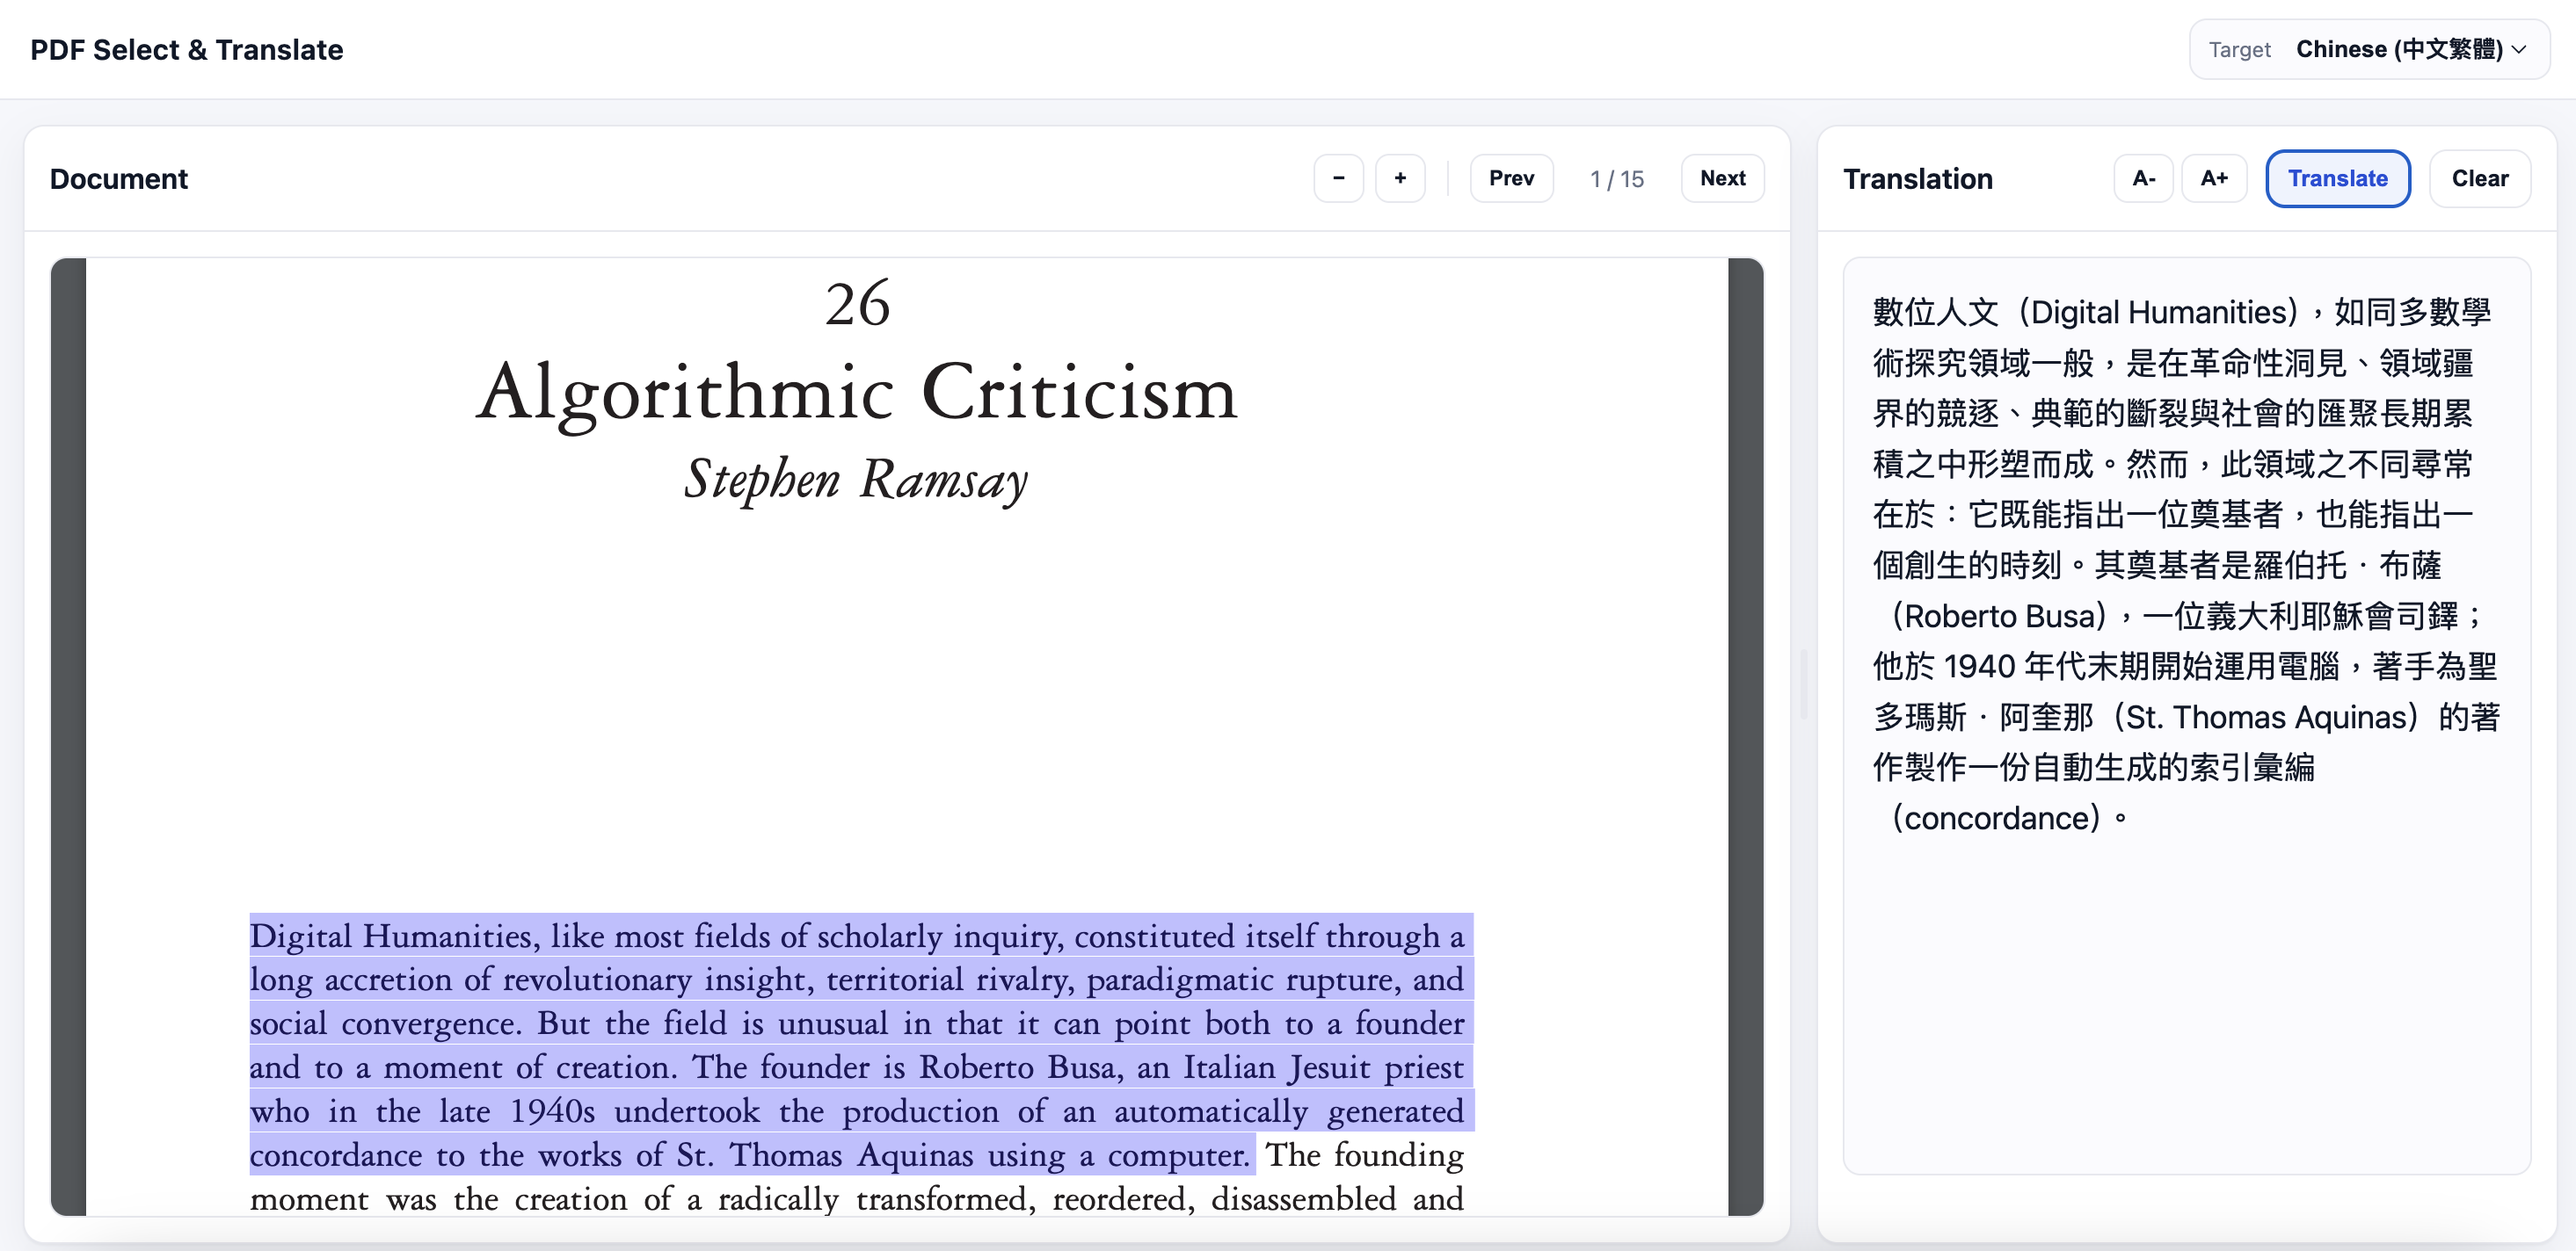
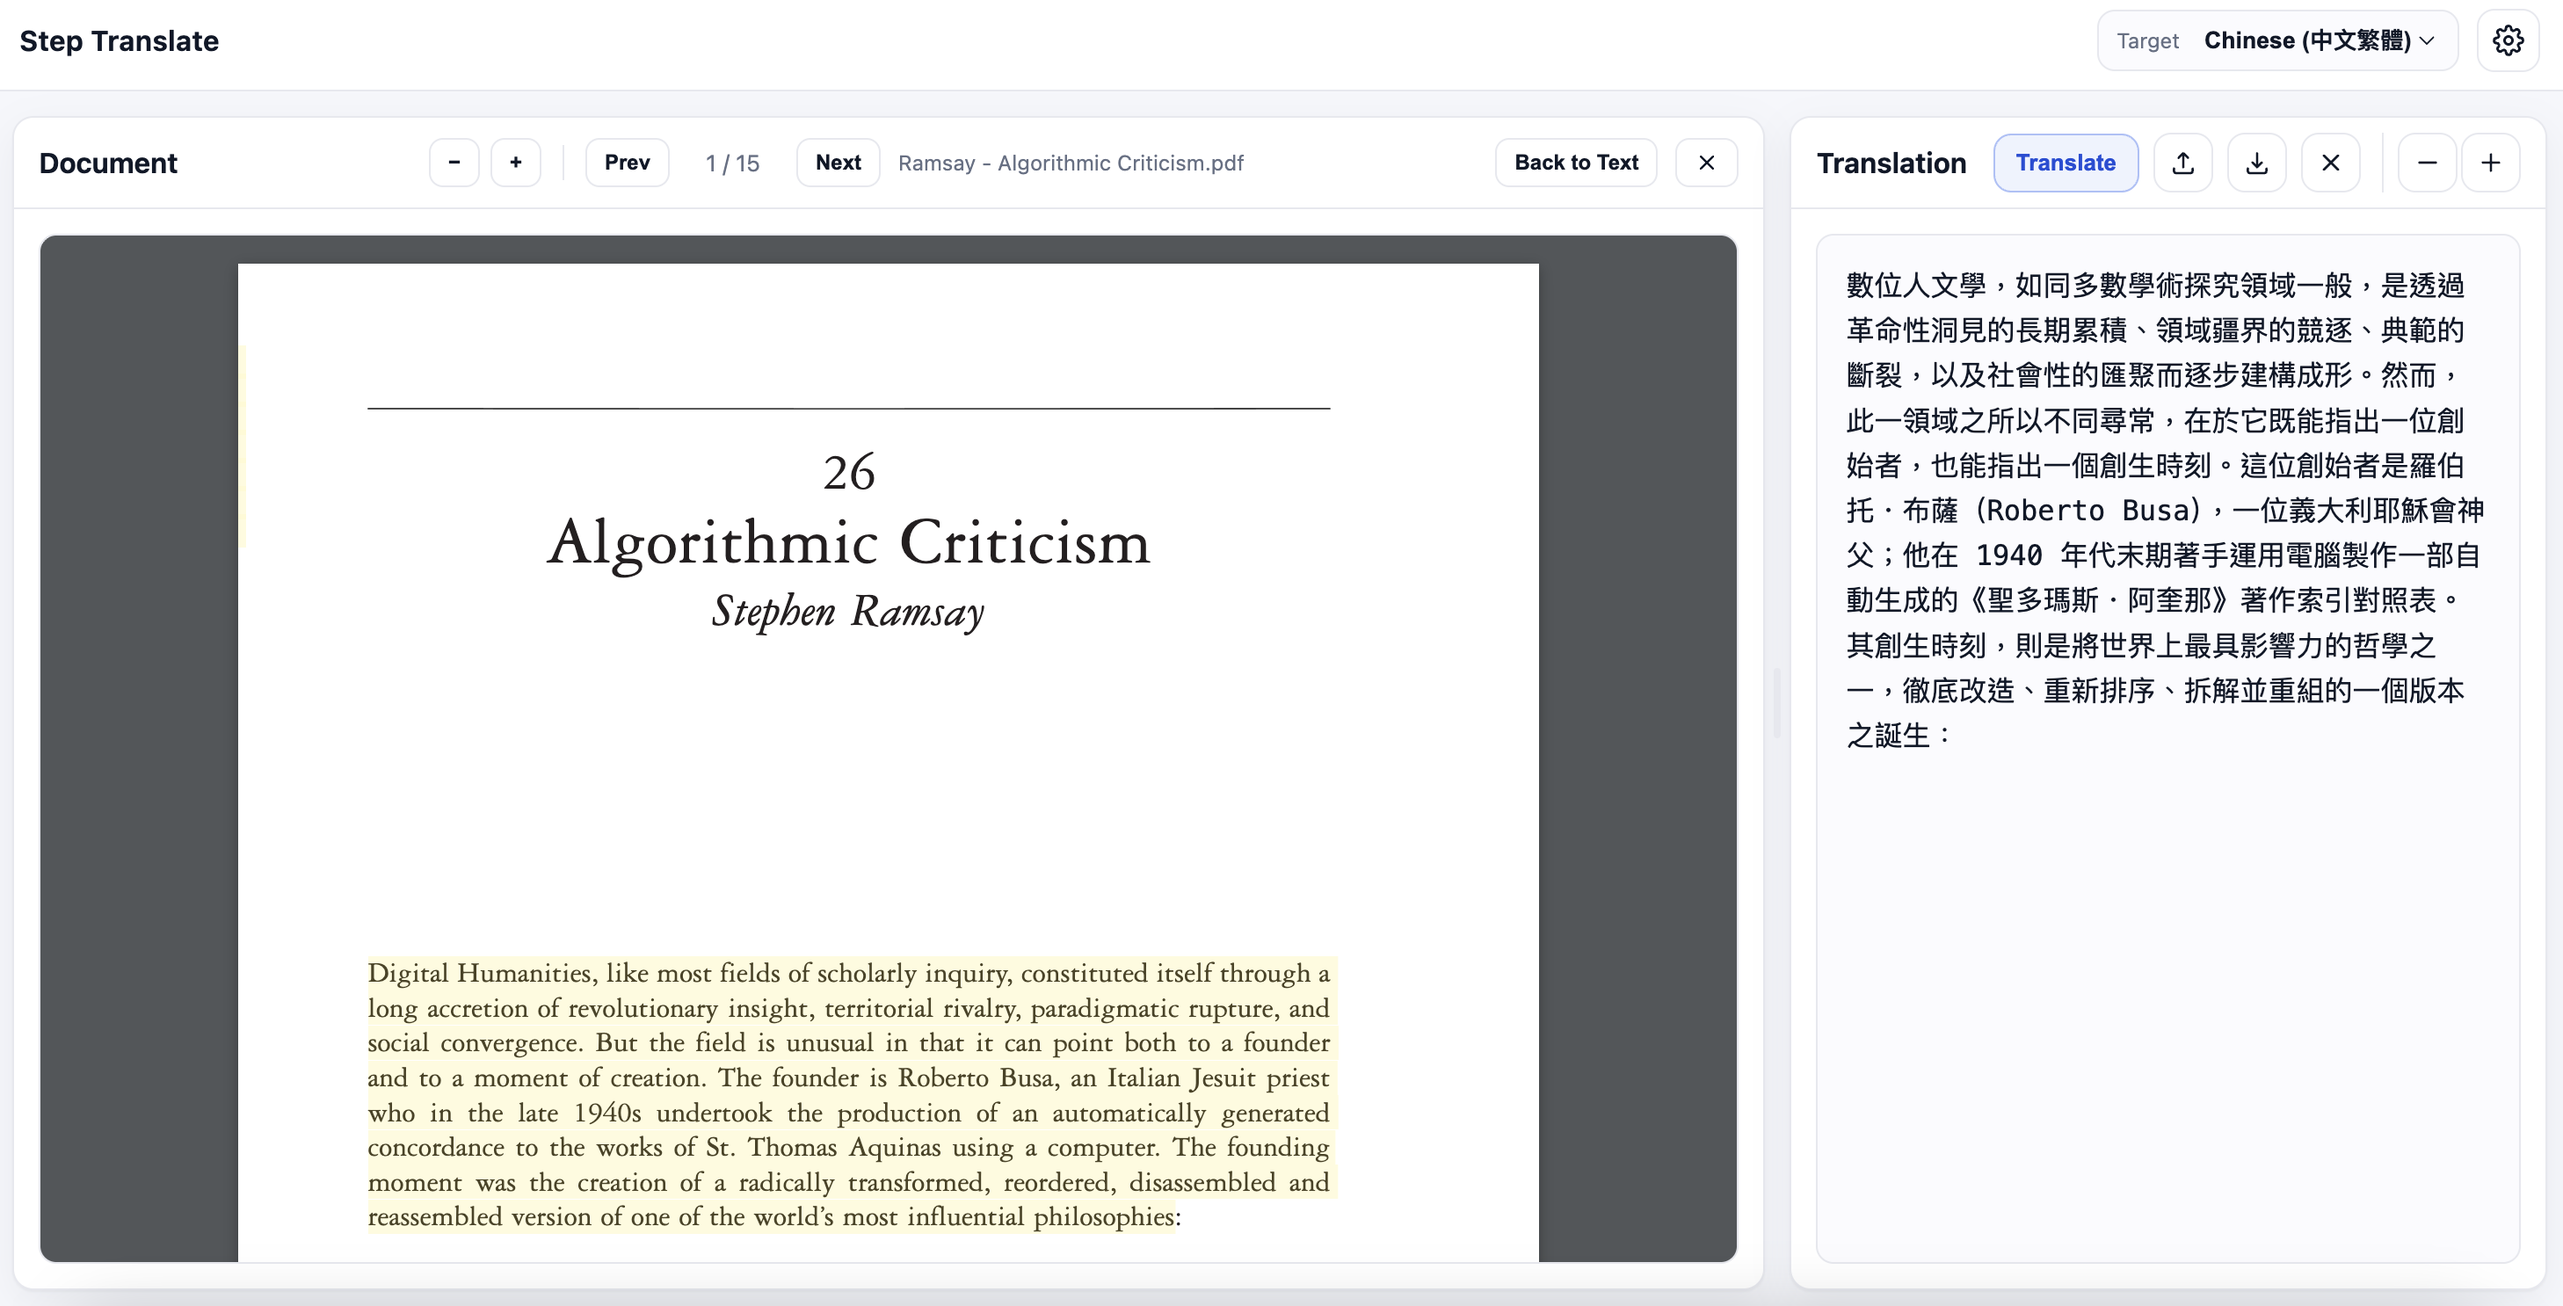
readme

diff --git a/static/app.js b/static/app.js
@@ -51,6 +51,8 @@ const els = {
   systemPrompt: document.getElementById("systemPrompt"),
   userPrompt: document.getElementById("userPrompt"),
   resetAllSettingsBtn: document.getElementById("resetAllSettingsBtn"),
+  fontIncrease: document.getElementById("fontIncrease"),
+  fontDecrease: document.getElementById("fontDecrease"),
 };
 
 // ============================================================================
@@ -92,6 +94,15 @@ const state = {
 const STORAGE_KEYS = {
   settings: "step-translate-settings",
   panelWidth: "step-translate-panel-width",
+  editorFontSize: "step-translate-editor-font-size",
+};
+
+// Editor font size config
+const FONT_SIZE = {
+  min: 10,
+  max: 28,
+  default: 14,
+  step: 2,
 };
 
 // ============================================================================
@@ -1073,6 +1084,31 @@ function clearTranslation() {
 }
 
 // ============================================================================
+// Editor Font Size
+// ============================================================================
+
+function getEditorFontSize() {
+  const saved = localStorage.getItem(STORAGE_KEYS.editorFontSize);
+  return saved ? parseInt(saved, 10) : FONT_SIZE.default;
+}
+
+function setEditorFontSize(size) {
+  const clamped = Math.max(FONT_SIZE.min, Math.min(FONT_SIZE.max, size));
+  els.translationEditor.style.fontSize = `${clamped}px`;
+  localStorage.setItem(STORAGE_KEYS.editorFontSize, clamped);
+}
+
+function increaseEditorFontSize() {
+  const current = getEditorFontSize();
+  setEditorFontSize(current + FONT_SIZE.step);
+}
+
+function decreaseEditorFontSize() {
+  const current = getEditorFontSize();
+  setEditorFontSize(current - FONT_SIZE.step);
+}
+
+// ============================================================================
 // Translation Upload/Download
 // ============================================================================
 
@@ -1384,6 +1420,9 @@ function setupPdfControls() {
 async function init() {
   await loadSettings();
   
+  // Restore editor font size
+  setEditorFontSize(getEditorFontSize());
+  
   els.fileInput.addEventListener("change", () => {
     const file = els.fileInput.files?.[0];
     if (file) uploadDocument(file);
@@ -1401,6 +1440,10 @@ async function init() {
   els.translateBtn.addEventListener("click", doTranslate);
   els.floatingTranslateBtn.addEventListener("click", doTranslate);
   els.clearBtn.addEventListener("click", clearTranslation);
+  
+  // Font size controls
+  els.fontIncrease.addEventListener("click", increaseEditorFontSize);
+  els.fontDecrease.addEventListener("click", decreaseEditorFontSize);
   
   // Translation upload/download
   els.uploadTranslationBtn.addEventListener("click", () => {

diff --git a/static/index.html b/static/index.html
@@ -140,6 +140,18 @@
                   <path d="M6 18L18 6M6 6l12 12" stroke-linecap="round" stroke-linejoin="round"/>
                 </svg>
               </button>
+              <div class="font-size-controls">
+                <button id="fontDecrease" class="btn btn-icon" title="Decrease font size">
+                  <svg width="16" height="16" viewBox="0 0 24 24" fill="none" stroke="currentColor" stroke-width="2">
+                    <path d="M5 12h14" stroke-linecap="round"/>
+                  </svg>
+                </button>
+                <button id="fontIncrease" class="btn btn-icon" title="Increase font size">
+                  <svg width="16" height="16" viewBox="0 0 24 24" fill="none" stroke="currentColor" stroke-width="2">
+                    <path d="M12 5v14M5 12h14" stroke-linecap="round"/>
+                  </svg>
+                </button>
+              </div>
             </div>
           </div>
 

diff --git a/static/app.css b/static/app.css
@@ -219,6 +219,15 @@ select {
   flex-shrink: 0;
 }
 
+.font-size-controls {
+  display: flex;
+  gap: 2px;
+  align-items: center;
+  margin-left: 4px;
+  padding-left: 8px;
+  border-left: 1px solid var(--border);
+}
+
 .document-info {
   font-size: 12px;
   color: var(--muted);
